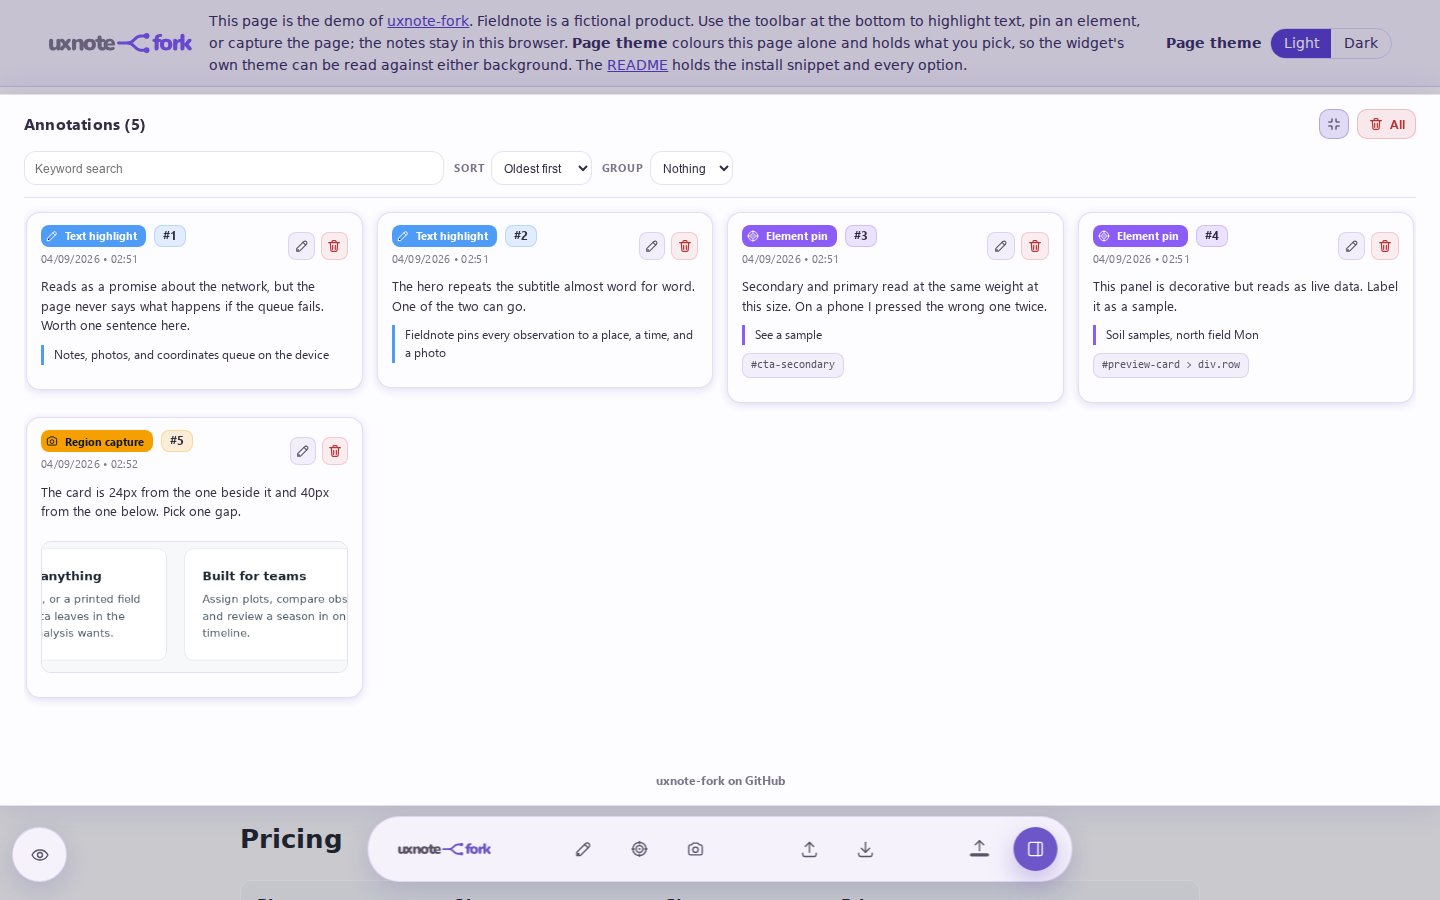
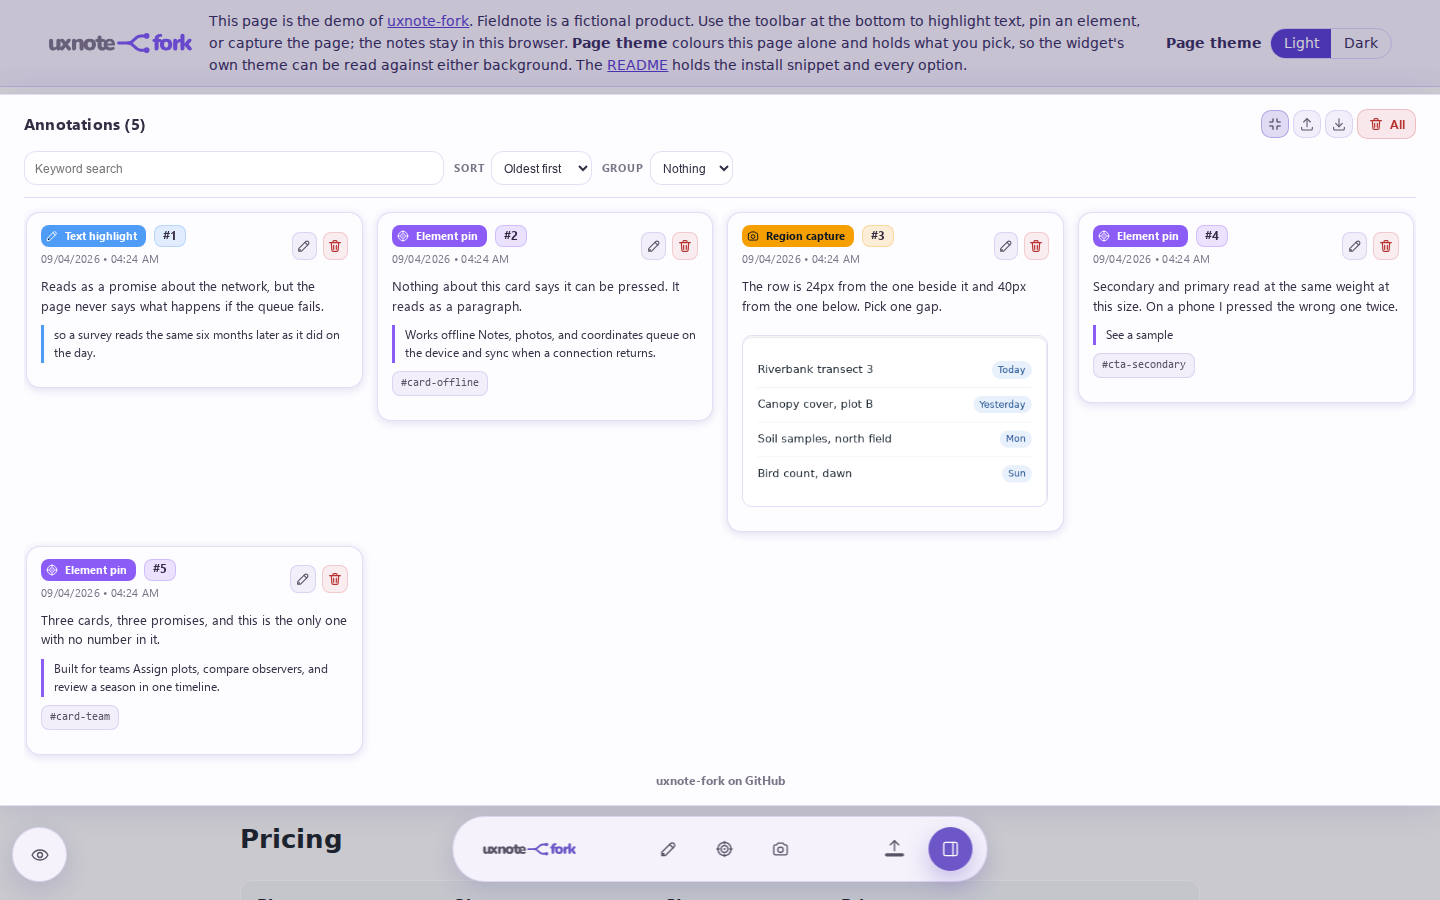
docs: describe the bubble on a mark and the handoffs the panel head carries

diff --git a/index.html b/index.html
@@ -230,7 +230,7 @@
         </select>
       </label>
       <label for="set-json-export"><span class="settings-name">data-json-export</span>
-        <span class="settings-desc">The export button. It writes every annotation of the site on the press; the send-by-mail button answers to its own option and stays.</span>
+        <span class="settings-desc">The export button in the head of the panel. It writes every annotation of the site on the press; the send-by-mail button answers to its own option and stays.</span>
         <select id="set-json-export">
           <option value="true">true</option>
           <option value="false">false</option>
@@ -277,7 +277,7 @@
         <input id="set-color-region" type="color" value="#f59f00">
       </label>
       <label for="set-mailto"><span class="settings-name">data-mailto</span>
-        <span class="settings-desc">The recipient of the send-by-mail button's draft. An address here is what puts the button in the toolbar; leave it empty and there is none.</span>
+        <span class="settings-desc">The recipient of the send-by-mail button's draft. An address here is what puts the button in the head of the panel; leave it empty and there is none.</span>
         <input id="set-mailto" type="email" placeholder="team@example.org">
       </label>
       <label for="set-server-url"><span class="settings-name">data-server-url</span>

diff --git a/CHANGELOG.md b/CHANGELOG.md
@@ -4,6 +4,8 @@ All notable changes to this project will be documented in this file.
 
 ## [Unreleased]
 ### Added
+- A bubble on a mark. Resting the pointer on a highlight, or on the numbered badge beside any annotation, opens the note it stands for on the page: the kind, the number, the comment, and a button that edits it. It stands off the mark far enough to walk into, flips below the mark where there is no room above it, follows the mark as the page scrolls, and stands down while a capture mode is on so the outline that previews an element keeps the pointer to itself. It is a hover surface and nothing else -- a finger has no hover to give and a keyboard has no pointer, and the card in the panel carries the same comment and the same edit button for both. The badge is the target for an element pin and for a region capture: a pin draws its outline on the page's own element, and one the size of the window would otherwise answer to the pointer anywhere on it.
+- Bubble and panel-head checks in the test suite: resting on a highlight says what the note says, the badge on a pinned element opens the same bubble, the bubble edits the note it is showing, a note nobody wrote a comment on says so, a capture mode keeps the bubble out of the way, it stands clear of its mark and inside the screen, and it follows its mark up the page; picking a way to mark puts the panel away in either shape, the head holds its three handoffs on one line beside the count in a 360px rail, and each symbol carries the name the bar used to write under it.
 - A full-size view of the annotation panel, on a window with room, opened from a control in the panel head and remembered per browser. It is the width of the window, and vertically the room between the two toolbar positions: the bar's height is given up at the top and at the bottom at once, so the view clears the bar wherever the bar is and does not move when the reviewer swaps it over. The 360px rail is still the shape the panel opens in, because it is the one that leaves the page beside it visible.
 - What a card shows once it has the room: the kind, as a mark in that kind's colour; the highlighted text, which the search read and nothing drew; the element an element pin points at; the page the note belongs to, where the set spans more than one; the picture at the size it was taken at rather than a 140px thumbnail; when the note was last edited; and what the server has of it -- on the server, not sent yet, or only in this browser. `author` and `priority` are drawn where an import brought them in.
 - A sort over the full-size list -- oldest, newest, by kind, by page -- and a grouping by page or by kind, with a heading and a count over each band.
@@ -19,14 +21,16 @@ All notable changes to this project will be documented in this file.
 - A preview on the element picker. On a coarse pointer the first tap outlines the element under the finger and names it, with `Wider` and `Narrower` to walk the chain it sits in and `Pin here` to commit. Wider is also the answer to a fat finger: start anywhere inside a block and climb to the block.
 - A guard on the screenshot render. snapdom draws the whole document before the crop comes out of it, and a long page on a slow device could sit on it with no end; the wait is bounded now and the toast says which of the two happened.
 - Touch checks on the four phone viewports, driving real touch events: a release mid-selection commits nothing, a multi-word selection reaches the prompt whole, the element preview stands before the commit and the picker stops at the page, one tap of the camera writes an annotation carrying the viewport rect, and the bars follow the toolbar to whichever edge it is on.
-- An `On a small screen` section in the README, for the half of the mobile work that answers to the room rather than to the pointer: the five controls the toolbar carries, the import and top/bottom controls it leaves out, export in the panel head as one share or download, and the panel, the comment prompt and the dialogs as sheets on the bottom edge. A narrow or short desktop window is named there too.
+- An `On a small screen` section in the README, for the half of the mobile work that answers to the room rather than to the pointer: the five controls the toolbar carries, the top/bottom control it leaves out, the export in the head of the panel as one share or download, and the panel, the comment prompt and the dialogs as sheets on the bottom edge. A narrow or short desktop window is named there too.
 - The rule every `true` / `false` option follows, in the README. `true`, `1`, `yes`, `on` and `false`, `0`, `no`, `off` are read and anything else falls back to the default -- and an attribute written with no value carries the empty string, so `data-json-export` on its own leaves the export switched on. Turning one off means writing the word.
 - `colorForRegionHighlight`, so the frame of a captured region can be recoloured on its own. The other two kinds had an attribute each and this one had none, so the only way to reach it was to recolour all three.
 ### Changed
-- `data-mail-export` is gone. The mail handoff is switched by the address it sends to: name a `data-mailto` and the toolbar carries the button, name none and there is none. The two attributes could disagree, and the pairing that read worst was the default one -- no address and the button there anyway, opening a draft addressed to nobody. An address the widget cannot parse counts as no address.
+- Export, import and the mail handoff leave the toolbar for the head of the panel, symbol for symbol. They act on the whole set of notes rather than on the page, so they are drawn beside the notes; the bar is left with the three ways of marking and the two controls that say where the widget sits. Each symbol is named on hover, and a compact layout keeps the export -- carrying its word, because nothing hovers there to name it -- and drops the other two.
+- Picking one of the three ways of marking puts the panel away, in either shape and whichever of the three was picked. Marking is done on the page, and the panel is over the page: a rail of it in the side view and the whole of it in the full-size one.
+- `data-mail-export` is gone. The mail handoff is switched by the address it sends to: name a `data-mailto` and the head of the panel carries the button, name none and there is none. The two attributes could disagree, and the pairing that read worst was the default one -- no address and the button there anyway, opening a draft addressed to nobody. An address the widget cannot parse counts as no address.
 - The three kinds of annotation start on three colours -- text `#4e9cf6`, element `#8b5cf6`, region `#f59f00` -- so a marker, an outline or a frame says which kind it belongs to before the note is read. `colorForHighlight` still paints all three at once; what it no longer does is work the other way round, where naming one kind alone made that colour the base and moved the other two with it.
 - The demo's settings grid carries the three per-kind colours in place of the shortcut. A colour input has no way to say *unset*, so a control for `colorForHighlight` could only lie about its default; the README carries it instead.
-- The toolbar carries five controls on a compact layout -- hide, highlight text, annotate an element, capture, notes -- each 48px, in one row, with no scrolling strip. Import and the top/bottom toggle are left out there, and export moves to the panel head beside delete-all.
+- The toolbar carries five controls on a compact layout -- hide, highlight text, annotate an element, capture, notes -- each 48px, in one row, with no scrolling strip. The top/bottom toggle is left out there: the bar belongs in thumb reach at the bottom, which leaves it no second answer.
 - Fixed chrome is placed with `left` and `right` insets and sized in percent rather than `vw`. A host page that overflows horizontally makes the containing block wider than `100vw`, which used to size the toolbar by one box and position it against another. The rules meant to anchor the bar to the edges on a small screen now carry enough specificity to apply at all.
 - `env(safe-area-inset-*)` on the toolbar, the floating visibility button and the full-screen panel, and `100dvh` with a `100vh` fallback wherever a viewport height is measured.
 - The panel list is reconciled rather than rebuilt. A card whose annotation has not changed keeps the node it already had, so an edit, a delete, a keystroke in the search box or an answer from the server touches the cards it changed and leaves the rest alone. Over 200 annotations, a re-render with nothing changed fell from 246ms to 4ms, and clearing a search that had emptied the list from 213ms to 11ms.
@@ -36,7 +40,7 @@ All notable changes to this project will be documented in this file.
 - The page dimmer is off by default on a coarse pointer. `isBackdropVisible` still turns it on by name.
 - A marker is held inside its host. A touch-sized marker on a block that runs the full width of the screen used to hang past the edge, which widened the document and moved every fixed element on the page with it.
 - The demo page's pricing table scrolls on its own instead of widening the page, and its subscribe row wraps on a narrow screen.
-- Export takes the share sheet where the layout is compact and the browser has one, and the download the widget already used where it has not. A wide window keeps the download, and keeps the mail button beside it: a `mailto:` carries the whole document in a URL, the first long comment overruns it, and a share sheet is where a handoff belongs on a phone anyway.
+- Export takes the share sheet where the layout is compact and the browser has one, and the download the widget already used where it has not. A wide window keeps the download, and keeps the mail button beside it in the head of the panel: a `mailto:` carries the whole document in a URL, the first long comment overruns it, and a share sheet is where a handoff belongs on a phone anyway.
 - The comment card's `opacity: 0.55` and the `:hover` that undid it are drawn only where a pointer can hover. Without one the card never came back, and the page read straight through the comment being written.
 - The sheet surfaces are named in the `color-scheme: dark` selector list, so the native controls they hold follow the theme rather than rendering light on dark.
 - A narrow window on a desktop gets the sheets too -- its comment prompt among them -- and keeps everything a mouse can use: the tooltips, and the outline that previews an element before it is pinned. How much room there is and what kind of pointer is driving are separate questions.

diff --git a/README.md b/README.md
@@ -54,8 +54,9 @@ Then open <http://localhost:4173/>.
   site, shared by every reviewer who opens the page. The browser keeps a copy,
   so a note written while the server is down survives a reload and goes up when
   the server comes back.
-- **JSON export and import.** Both are on by default, and each one switches
-  off per site. A `data-mailto` address adds a mail handoff beside them.
+- **JSON export and import.** In the head of the panel, beside the notes they
+  carry. Both are on by default, and each one switches off per site. A
+  `data-mailto` address adds a mail handoff beside them.
 - **A dark theme.** `auto` by default, following the system.
 - **Comment-first notes.** A note is one comment. On a roomy window the card
   parks beside the toolbar; on a small screen it rises from the bottom edge.
@@ -65,6 +66,9 @@ Then open <http://localhost:4173/>.
   full-size view has the room to show the kind, the highlighted text, the
   element, the page, the full-size screenshot, the edit time and what the
   server has of each note; it sorts, groups and searches all of it.
+- **A bubble on a mark.** Rest the pointer on a highlight or on a numbered
+  badge and the note it stands for opens on the page: the kind, the comment,
+  and a button that edits it, without opening the panel.
 - **Single-page apps.** The widget follows `pushState`, so a route change
   without a document load draws the annotations of the route you reached.
 - **Fenced areas.** `data-uxnote-ignore` keeps the widget out of an area;
@@ -73,7 +77,7 @@ Then open <http://localhost:4173/>.
   carries five thumb-sized controls, and the panel, the comment prompt and the
   dialogs become bottom sheets.
 
-![The toolbar on a wide window: the uxnote-fork logo, the two highlight modes, the camera, the import and export buttons, and the panel toggle](assets/readme/toolbar.png)
+![The toolbar on a wide window: the uxnote-fork logo, the two highlight modes, the camera, the top and bottom toggle, and the panel toggle](assets/readme/toolbar.png)
 
 ## Install
 
@@ -131,9 +135,9 @@ lines you want.
 | `isBackdropVisible` | `true` on a mouse, `false` where the pointer is coarse | Dims the page behind the annotations. On a phone the bar is a strip and the page is the whole screen, so the dimmer costs contrast for nothing; naming it brings it back. |
 | `isToolVisibleAtFirstLaunch` | `true` | Shows the toolbar on the first visit. |
 | `isToolOnTopAtLaunch` | `false` | Starts the toolbar at the top instead of the bottom. The control that moves it afterwards is on a wide window only, so on a small screen this is the way to ask for the top. |
-| `data-mailto` | empty | The recipient of the mail handoff, and the switch for it: an address here puts the mail button in the toolbar, and nothing here means no button. Anything that is not an address counts as nothing. `data-email` and `data-to` are read the same way. The button is on a wide window only. |
-| `data-json-export` | `true` | `false` removes the export control. The export writes every annotation of the site and asks nothing first. The control is in the toolbar on a wide window and in the panel head on a small screen. |
-| `data-json-import` | `true` | `false` removes the import button, its dialog, and its list of imported files. The button is on a wide window only; an annotation imported earlier is drawn either way. |
+| `data-mailto` | empty | The recipient of the mail handoff, and the switch for it: an address here puts the mail button in the head of the panel, and nothing here means no button. Anything that is not an address counts as nothing. `data-email` and `data-to` are read the same way. The button is on a wide window only. |
+| `data-json-export` | `true` | `false` removes the export control. The export writes every annotation of the site and asks nothing first. The control is in the head of the panel, at either layout. |
+| `data-json-import` | `true` | `false` removes the import button, its dialog, and its list of imported files. The button is in the head of the panel, on a wide window only; an annotation imported earlier is drawn either way. |
 | `data-server-url` | unset | The base URL of the server that stores the annotations. Unset means `localStorage`. |
 | `data-server-api-key` | empty | Sent as `X-Uxnote-Key` on every request. Empty sends no header. |
 | `data-theme` | `auto` | `auto` follows the system theme and changes with it, `reverse-auto` takes the other side of it, and `light` and `dark` hold one. |
@@ -242,8 +246,15 @@ it, so nothing carries a base64 document to the server.
 ## The annotation panel
 
 The panel starts closed. The rightmost toolbar button opens it, and so does a
-marker on the page. On a window with room it has two shapes, and the control in
-its head switches between them and remembers which one you left it in.
+marker on the page. Picking one of the three ways of marking puts it away
+again, whichever shape it is in: marking is done on the page, and the panel is
+over the page. On a window with room it has two shapes, and the control in its
+head switches between them and remembers which one you left it in.
+
+The head carries what can be done with the whole set, beside the notes it acts
+on: **export**, **import** and, where the page names an address, **send by
+mail**. Delete-all is there too, and the control that switches the two shapes.
+Each is a symbol, named on hover.
 
 **The rail** is the shape it opens in: a 360px column against the right edge,
 with the page beside it. It carries the number, the kind, the comment, the date
@@ -284,6 +295,29 @@ offered; see **On a small screen**.
 
 ![The full-size panel across a wide window: a grid of cards, each with its kind, its comment, the text or the element it points at, and the page it belongs to](assets/readme/full-panel.png)
 
+## The bubble on a mark
+
+Every annotation leaves something where it was made: a highlight over the
+words, an outline around the element, a frame where the region was, and a
+numbered badge beside each of them. Rest the pointer on the highlight or on the
+badge and a bubble opens with the kind, the number, the comment, and a button
+that opens the comment for editing. It stands off the mark far enough to walk
+into, flips below the mark where there is no room above it, follows the mark
+when the page scrolls, and closes when the pointer leaves.
+
+The badge is the hover target for an element pin and for a region capture. A
+pin draws its outline on the page's own element, and a pin on something the
+size of the window would then answer to the pointer anywhere on it; the badge
+sits on that outline and is the size of a mark.
+
+It is a hover surface and nothing else. A finger has no hover to give and a
+keyboard has no pointer, and the card in the panel carries the same comment and
+the same edit button for both. It stays out of the way while one of the capture
+modes is on, so the outline that previews an element has the pointer to itself,
+and it goes with the rest when the widget is hidden.
+
+![The bubble open over a text highlight on the demo page: the kind, the number, the comment, and the button that edits it](assets/readme/note-bubble.png)
+
 ## On a small screen
 
 The widget asks two questions and keeps them apart. How much room the window
@@ -300,18 +334,19 @@ wraps nor scrolls: hide, highlight text, annotate an element, capture, notes.
 Four without snapdom, which is what the camera needs. The wordmark is hidden,
 and the tooltips are not drawn where nothing can hover to open them.
 
-**Import and the top/bottom toggle are not there.** An import needs the file on
-the device, and the bar belongs in thumb reach at the bottom, which leaves the
-toggle no second answer. Annotations imported earlier are still drawn; only the
-dialog that manages the files is gone, and `isToolOnTopAtLaunch="true"` still
-puts the bar at the top.
+**The top/bottom toggle is not there.** The bar belongs in thumb reach at the
+bottom, which leaves the toggle no second answer. `isToolOnTopAtLaunch="true"`
+still puts the bar at the top.
 
-**Export moves to the panel head**, beside delete-all. The file goes to the
-share sheet where the browser offers one, and to the same download a wide
-window uses where it does not. Neither asks anything first. The mail button is
-on a wide window only: a `mailto:` carries the whole document in a URL, the
-first long comment overruns it, and a share sheet is where a phone hands a file
-over anyway.
+**The panel head keeps the export and drops the other two.** The file goes to
+the share sheet where the browser offers one, and to the same download a wide
+window uses where it does not; neither asks anything first, and the symbol
+carries its word here, because nothing hovers to name it. An import needs the
+file on the device, which a phone picker cannot usefully give — annotations
+imported earlier are still drawn, only the dialog that manages the files is
+gone. Mail rides the share sheet: a `mailto:` carries the whole document in a
+URL, the first long comment overruns it, and a share sheet is where a phone
+hands a file over anyway.
 
 **The panel, the comment prompt and the dialogs rise from the bottom edge.**
 Each is a sheet with a drag handle that dismisses it on a drag down, a close
